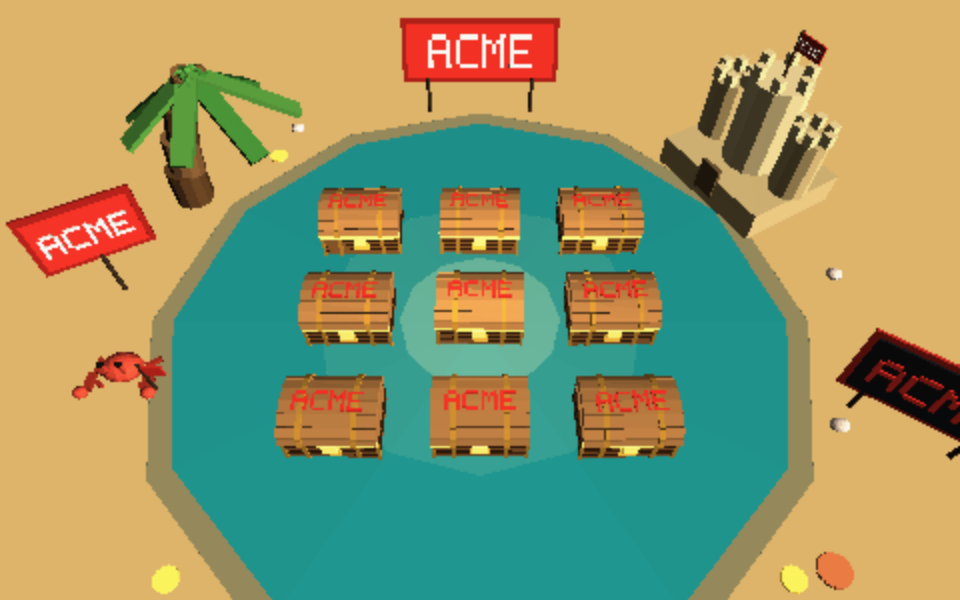
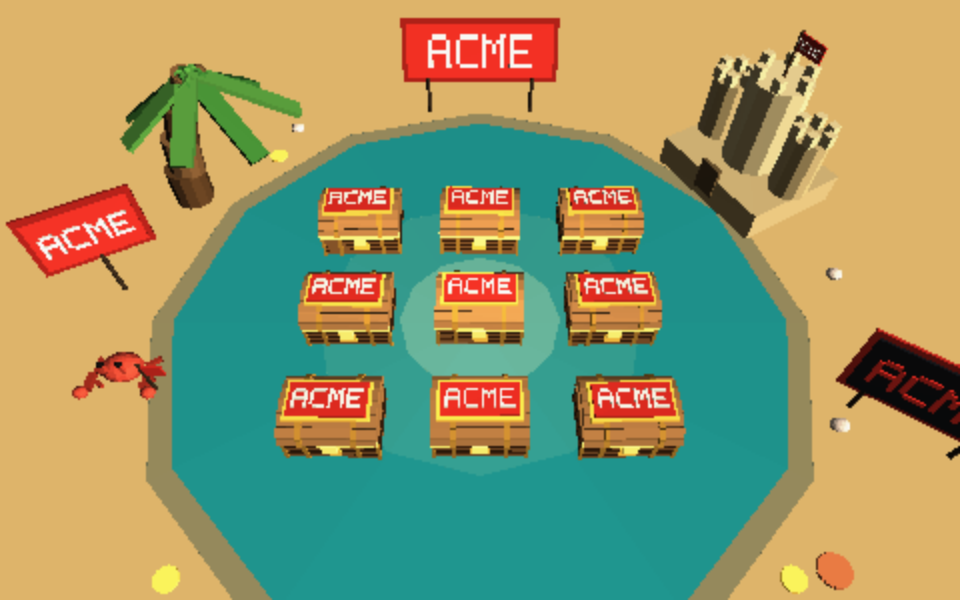
casino-games(treasure-chest-pick): put the chest brand name on a mounted plaque
The chest lettering now sits on a raised NAMEPLATE — a gold-framed, brand-colored
plaque on the lid — rather than stamped straight onto the wood dome. Plaque frame,
plate, and lettering are all placed through the chest's (origin, q, squash·grow)
frame, so the whole nameplate rides every idle bob, dance, tilt and the hero
spiral welded to the chest. Long names still shrink to fit the plate. Champion
refreshed (deterministic via the `frozen` capture gate).

Claude-Session: https://claude.ai/code/session_01UGaY1aBddWmetikRuAsBr6

diff --git a/apps/casino-games/web/src/games/treasure-chest-pick/scene.ts b/apps/casino-games/web/src/games/treasure-chest-pick/scene.ts
@@ -401,26 +401,42 @@ const chestInstances = (key: string, pose: ChestPose): readonly SceneInstance[] 
       ? [disc(`${key}:ring`, "PoolOuter", ringBase, BODY.x * 1.0, 0.012)]
       : [];
 
-  // The brand name laid across the TOP of the closed chest, facing up so it reads
-  // clearly from the tabletop camera (which looks down on the lid, not the
-  // foreshortened front). The anchor is a chest-local point just above the dome
-  // crown, carried through the same (origin, q, squash·grow) frame the chest
-  // parts use — so the lettering squashes, grows, tilts and spirals welded to the
-  // chest, as part of it. `orient` lays the text flat (its normal up the chest's
-  // Y, its reading direction across the chest's X) and its "up" toward the chest's
-  // −Z so it reads top-away from the camera. Long names shrink to fit (label.ts).
-  const crownLocal = v3(0, CHEST_HEIGHT * 1.02, 0.04);
-  const crownAnchor = addV3(origin, rotateByQuat(v3(crownLocal.x * squashXZ * grow, crownLocal.y * squashY * grow, crownLocal.z * squashXZ * grow), q));
+  // A brand NAMEPLATE mounted on the TOP of the closed chest, facing up so it
+  // reads clearly from the tabletop camera (which looks down on the lid, not the
+  // foreshortened front). It is a raised plaque — a gold frame under a brand-
+  // colored plate — carrying the brand name in the on-primary color, NOT letters
+  // laid straight on the wood. Everything is placed through the same (origin, q,
+  // squash·grow) frame the chest parts use, so the whole plaque squashes, grows,
+  // tilts and spirals welded to the chest, as part of it. `plateOrient` lays it
+  // flat (normal up the chest's Y, reading direction across the chest's X, its
+  // "up" toward the chest's −Z so it reads top-away from the camera). Long names
+  // shrink to fit the plate (label.ts).
+  const plateOrient = quatMul(q, quatPitch(-Math.PI / 2));
+  const plateBasis = v3(squashXZ * grow, squashXZ * grow, squashY * grow);
+  const crownAnchor = addV3(origin, rotateByQuat(v3(0, CHEST_HEIGHT * squashY * grow, 0.03 * squashXZ * grow), q));
+  // A flat box on the plaque frame: `size`/`offset` are in oriented-local units
+  // (x across, y along the chest depth, z up off the lid), scaled by `plateBasis`.
+  const platePart = (suffix: string, size: EngineVec3, offset: EngineVec3, material: string): SceneInstance => ({
+    key: `${key}:${suffix}`,
+    material,
+    mesh: "box",
+    transform: {
+      position: addV3(crownAnchor, rotateByQuat(v3(offset.x * plateBasis.x, offset.y * plateBasis.y, offset.z * plateBasis.z), plateOrient)),
+      rotation: plateOrient,
+      scale: v3(size.x * plateBasis.x, size.y * plateBasis.y, size.z * plateBasis.z),
+    },
+  });
+  const plateW = BODY.x * 0.82;
+  const plateH = 0.5;
+  const plaque = [
+    platePart("plaqueframe", v3(plateW + 0.1, plateH + 0.1, 0.05), v3(0, 0, 0.0), pose.dim ? "GildDim" : "GildFront"),
+    platePart("plaque", v3(plateW, plateH, 0.06), v3(0, 0, 0.035), pose.dim ? "BrandPrimaryDim" : "BrandPrimary"),
+  ];
   const label = stampText(
     `${key}:brand`,
     pose.brandName,
-    {
-      basis: v3(squashXZ * grow, squashXZ * grow, squashY * grow),
-      center: v3(0, 0, 0),
-      orient: quatMul(q, quatPitch(-Math.PI / 2)),
-      origin: crownAnchor,
-    },
-    { depth: 0.02, height: 0.34, lift: 0.0, material: pose.dim ? "BrandLetterDim" : "BrandLetter", maxWidth: BODY.x * 0.74 },
+    { basis: plateBasis, center: v3(0, 0, 0), orient: plateOrient, origin: crownAnchor },
+    { depth: 0.02, height: 0.3, lift: 0.08, material: pose.dim ? "BrandLetterDim" : "BrandLetterOnPrimary", maxWidth: BODY.x * 0.72 },
   );
 
   return [
@@ -444,6 +460,7 @@ const chestInstances = (key: string, pose: ChestPose): readonly SceneInstance[] 
     part("edgeL", v3(-BODY.x / 2, BODY.y / 2, BODY.z / 2), v3(0.05, BODY.y + 0.02, 0.05), trimSide),
     part("edgeR", v3(BODY.x / 2, BODY.y / 2, BODY.z / 2), v3(0.05, BODY.y + 0.02, 0.05), trimSide),
     part("plate", v3(0, BODY.y * 0.5, BODY.z / 2 + 0.005), v3(0.26, 0.2, 0.04), trimFront),
+    ...plaque,
     ...label,
     interior,
     ...glow,